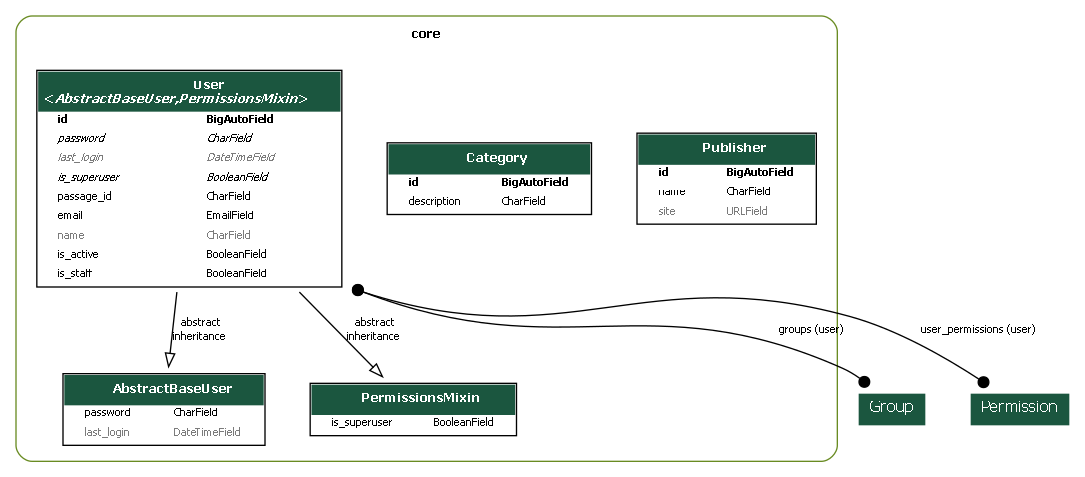
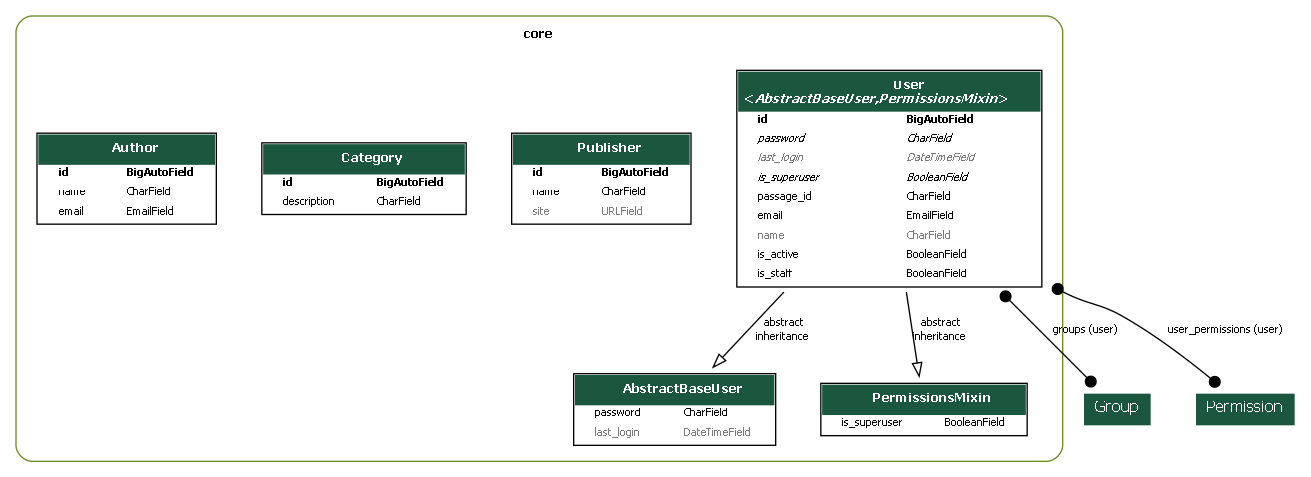
feat: add author API

diff --git a/core/migrations/0010_author.py b/core/migrations/0010_author.py
@@ -1,0 +1,21 @@
+# Generated by Django 5.1.7 on 2026-02-26 12:23
+
+from django.db import migrations, models
+
+
+class Migration(migrations.Migration):
+
+    dependencies = [
+        ('core', '0009_publisher'),
+    ]
+
+    operations = [
+        migrations.CreateModel(
+            name='Author',
+            fields=[
+                ('id', models.BigAutoField(auto_created=True, primary_key=True, serialize=False, verbose_name='ID')),
+                ('name', models.CharField(max_length=100)),
+                ('email', models.EmailField(max_length=100, null=True)),
+            ],
+        ),
+    ]

diff --git a/app/urls.py b/app/urls.py
@@ -7,13 +7,14 @@ from drf_spectacular.views import (
 )
 from rest_framework.routers import DefaultRouter
 
-from core.views import UserViewSet, CategoryViewSet, PublisherViewSet
+from core.views import UserViewSet, CategoryViewSet, PublisherViewSet, AuthorViewSet
 
 router = DefaultRouter()
 
 router.register(r'usuarios', UserViewSet, basename='users')
 router.register(r'categorias', CategoryViewSet)
 router.register(r'editoras', PublisherViewSet)
+router.register(r'autores', AuthorViewSet)
 
 urlpatterns = [
     path('admin/', admin.site.urls),

diff --git a/core/views/author.py b/core/views/author.py
@@ -1,0 +1,9 @@
+from rest_framework.viewsets import ModelViewSet
+
+from core.models import Author
+from core.serializers import AuthorSeriazlizer
+
+
+class AuthorViewSet(ModelViewSet):
+    queryset = Author.objects.all()
+    serializer_class = AuthorSeriazlizer

diff --git a/core/models/author.py b/core/models/author.py
@@ -1,0 +1,8 @@
+from django.db import models
+
+class Author(models.Model):
+    name = models.CharField(max_length=100)
+    email = models.EmailField(max_length=100, null=True)
+
+    def __str__(self):
+        return self.name

diff --git a/core/serializers/author.py b/core/serializers/author.py
@@ -1,0 +1,9 @@
+from rest_framework.serializers import ModelSerializer
+
+from core.models import Author
+
+
+class AuthorSeriazlizer(ModelSerializer):
+    class Meta:
+        model = Author
+        fields = '__all__'

diff --git a/core/serializers/__init__.py b/core/serializers/__init__.py
@@ -1,3 +1,4 @@
-from .user import UserSerializer
+from .author import AuthorSeriazlizer
 from .category import CategorySeriazlizer
 from .publisher import PublisherSerializer
+from .user import UserSerializer

diff --git a/core/admin.py b/core/admin.py
@@ -54,3 +54,4 @@ class UserAdmin(BaseUserAdmin):
 admin.site.register(models.User, UserAdmin)
 admin.site.register(models.Category)
 admin.site.register(models.Publisher)
+admin.site.register(models.Author)

diff --git a/core/views/__init__.py b/core/views/__init__.py
@@ -1,3 +1,4 @@
-from .user import UserViewSet
+from .author import AuthorViewSet
 from .category import CategoryViewSet
 from .publisher import PublisherViewSet
+from .user import UserViewSet

diff --git a/core/models/__init__.py b/core/models/__init__.py
@@ -1,3 +1,4 @@
-from .user import User
+from .author import Author
 from .category import Category
 from .publisher import Publisher
+from .user import User
